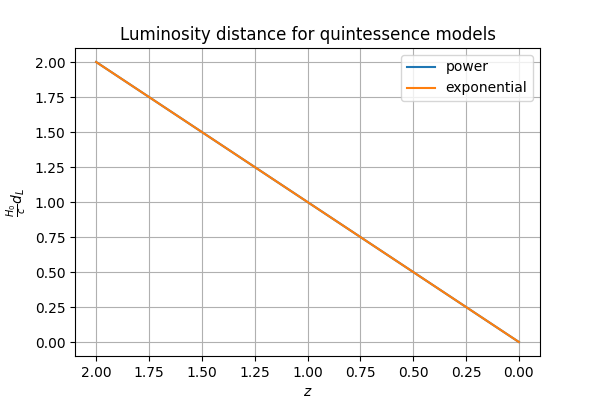
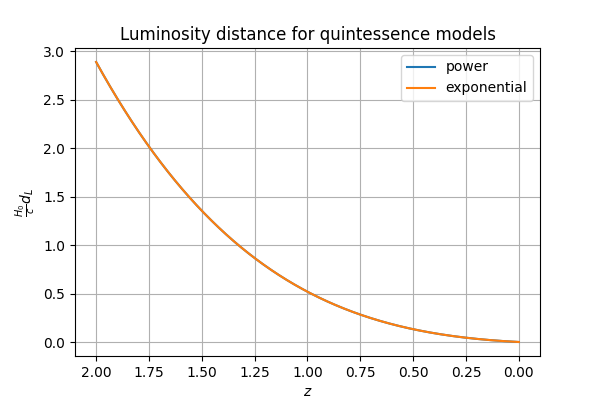
WORKING

diff --git a/Projects/Project 1/scripts/problem12.py b/Projects/Project 1/scripts/problem12.py
@@ -26,8 +26,10 @@ def lumonisity_integrand_quintessence(
     """
 
     z, h = hubble_parameter_quintessence(V, N_i, N_f, n_points)
-    N = np.log(1 / (1 + z))
-    return N, np.exp(-N) / h
+    z = np.flip(z)
+    # N = np.log(1 / (1 + z))
+    # return N, np.exp(-N) / h
+    return z, 1 / h
 
 
 def luminosity_distance_quintessence(
@@ -47,11 +49,13 @@ def luminosity_distance_quintessence(
         N: The characteristic time array N
         d: The dimensionless luminosity distances array
     """
-    N, I = lumonisity_integrand_quintessence(V, N_i, N_f, n_points)
+    # N, I = lumonisity_integrand_quintessence(V, N_i, N_f, n_points)
+    z, I = lumonisity_integrand_quintessence(V, N_i, N_f, n_points)
 
     # flip integrand to integrate the correct way,
     # then also flip the integral array back
-    return N, np.exp(-N) * np.flip(cumulative_trapezoid(np.flip(I), N, initial=0))
+    # return z, (1 + z) * np.flip(cumulative_trapezoid(np.flip(I), z, initial=0))
+    return z, (1 + z) * cumulative_trapezoid(I, z, initial=0)
 
 
 def plot_lumosity_distances(
@@ -89,8 +93,9 @@ def plot_lumosity_distances(
 
     # The two quintessence models
     for V in ["power", "exponential"]:
-        N, d = luminosity_distance_quintessence(V, N_i, N_f)
-        z = np.exp(-N) - 1  # convert time x-axis to the redshift z
+        # N, d = luminosity_distance_quintessence(V, N_i, N_f)
+        z, d = luminosity_distance_quintessence(V, N_i, N_f)
+        # z = np.exp(-N) - 1  # convert time x-axis to the redshift z
         # z = np.flip(np.exp(-N) - 1)  # convert time x-axis to the redshift z and flip
         plt.plot(z, d, label=V)
         if prnt:
